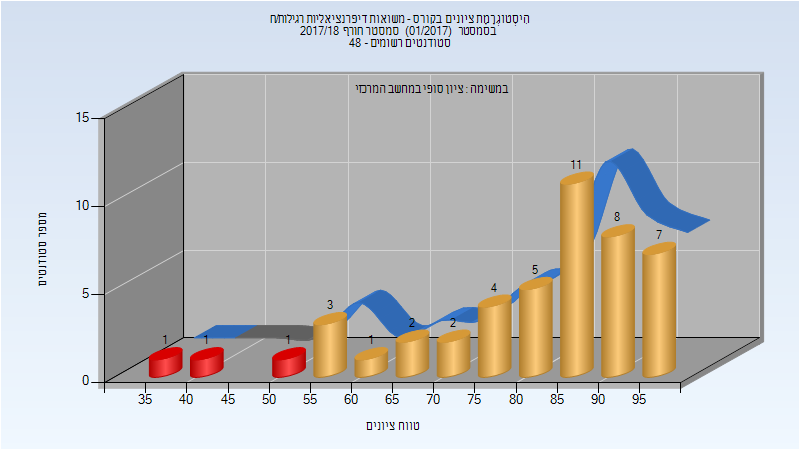
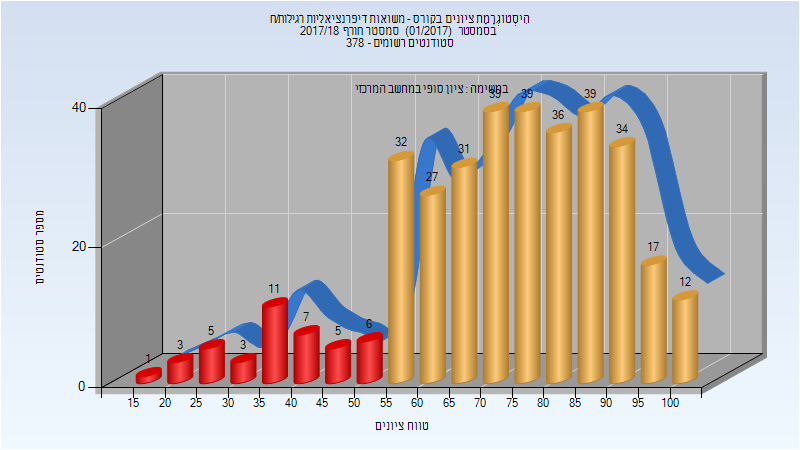
Deploy michael-maltsev/technion-histograms to github.com/michael-maltsev/technion-histograms.git:gh-pages

diff --git a/104131/index.html b/104131/index.html
@@ -970,8 +970,12 @@
 </thead>
 <tbody>
 <tr>
-<td>ג'יאנג זילין</td>
+<td>כהן יוסף</td>
 <td>מרצה - אחראי מקצוע</td>
+</tr>
+<tr>
+<td>בר און רועי</td>
+<td>מתרגל</td>
 </tr>
 </tbody>
 </table>
@@ -1095,13 +1099,13 @@
 </thead>
 <tbody>
 <tr>
-<td>46</td>
-<td>43/3</td>
-<td>93</td>
-<td>36</td>
-<td>99</td>
-<td>80.957</td>
-<td>86</td>
+<td>347</td>
+<td>306/41</td>
+<td>88</td>
+<td>17</td>
+<td>100</td>
+<td>72.729</td>
+<td>75</td>
 </tr>
 </tbody>
 </table>

diff --git a/104131/README.md b/104131/README.md
@@ -303,7 +303,8 @@
 
 | איש סגל | תפקיד |
 | ---- | ---- |
-| ג'יאנג זילין | מרצה - אחראי מקצוע |
+| כהן יוסף | מרצה - אחראי מקצוע |
+| בר און רועי | מתרגל |
 
 ### מבחן מועד א'
 
@@ -343,7 +344,7 @@
 
 | סטודנטים | עברו/נכשלו | אחוז עוברים | ציון מינימלי | ציון מקסימלי | ממוצע | חציון |
 | ---- | ---- | ---- | ---- | ---- | ---- | ---- |
-| 46 | 43/3 | 93 | 36 | 99 | 80.957 | 86 |
+| 347 | 306/41 | 88 | 17 | 100 | 72.729 | 75 |
 
 ## אביב 2018
 
